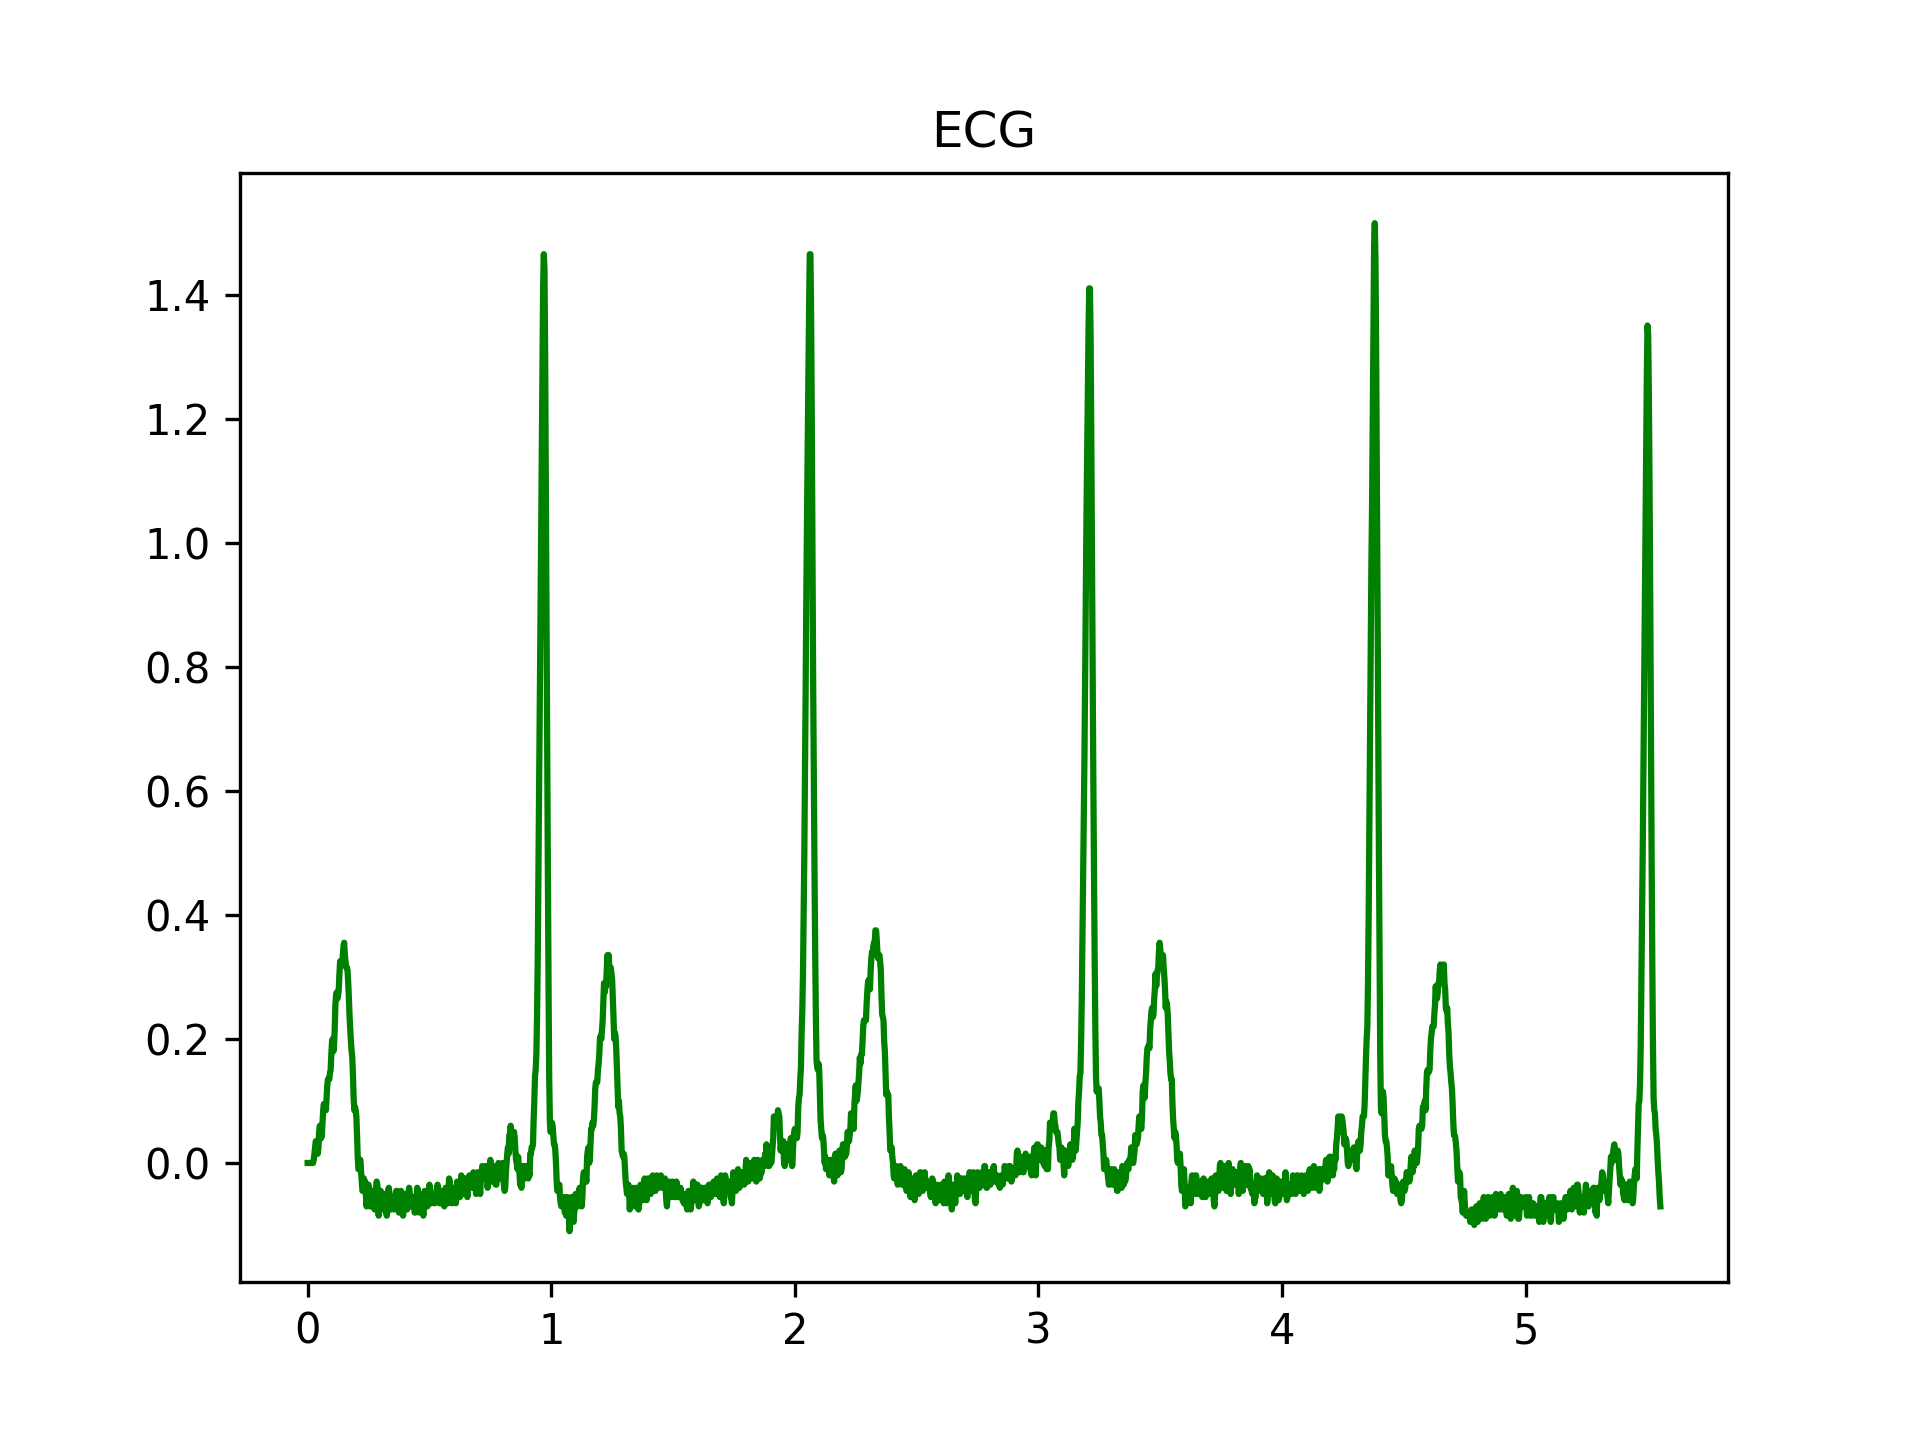
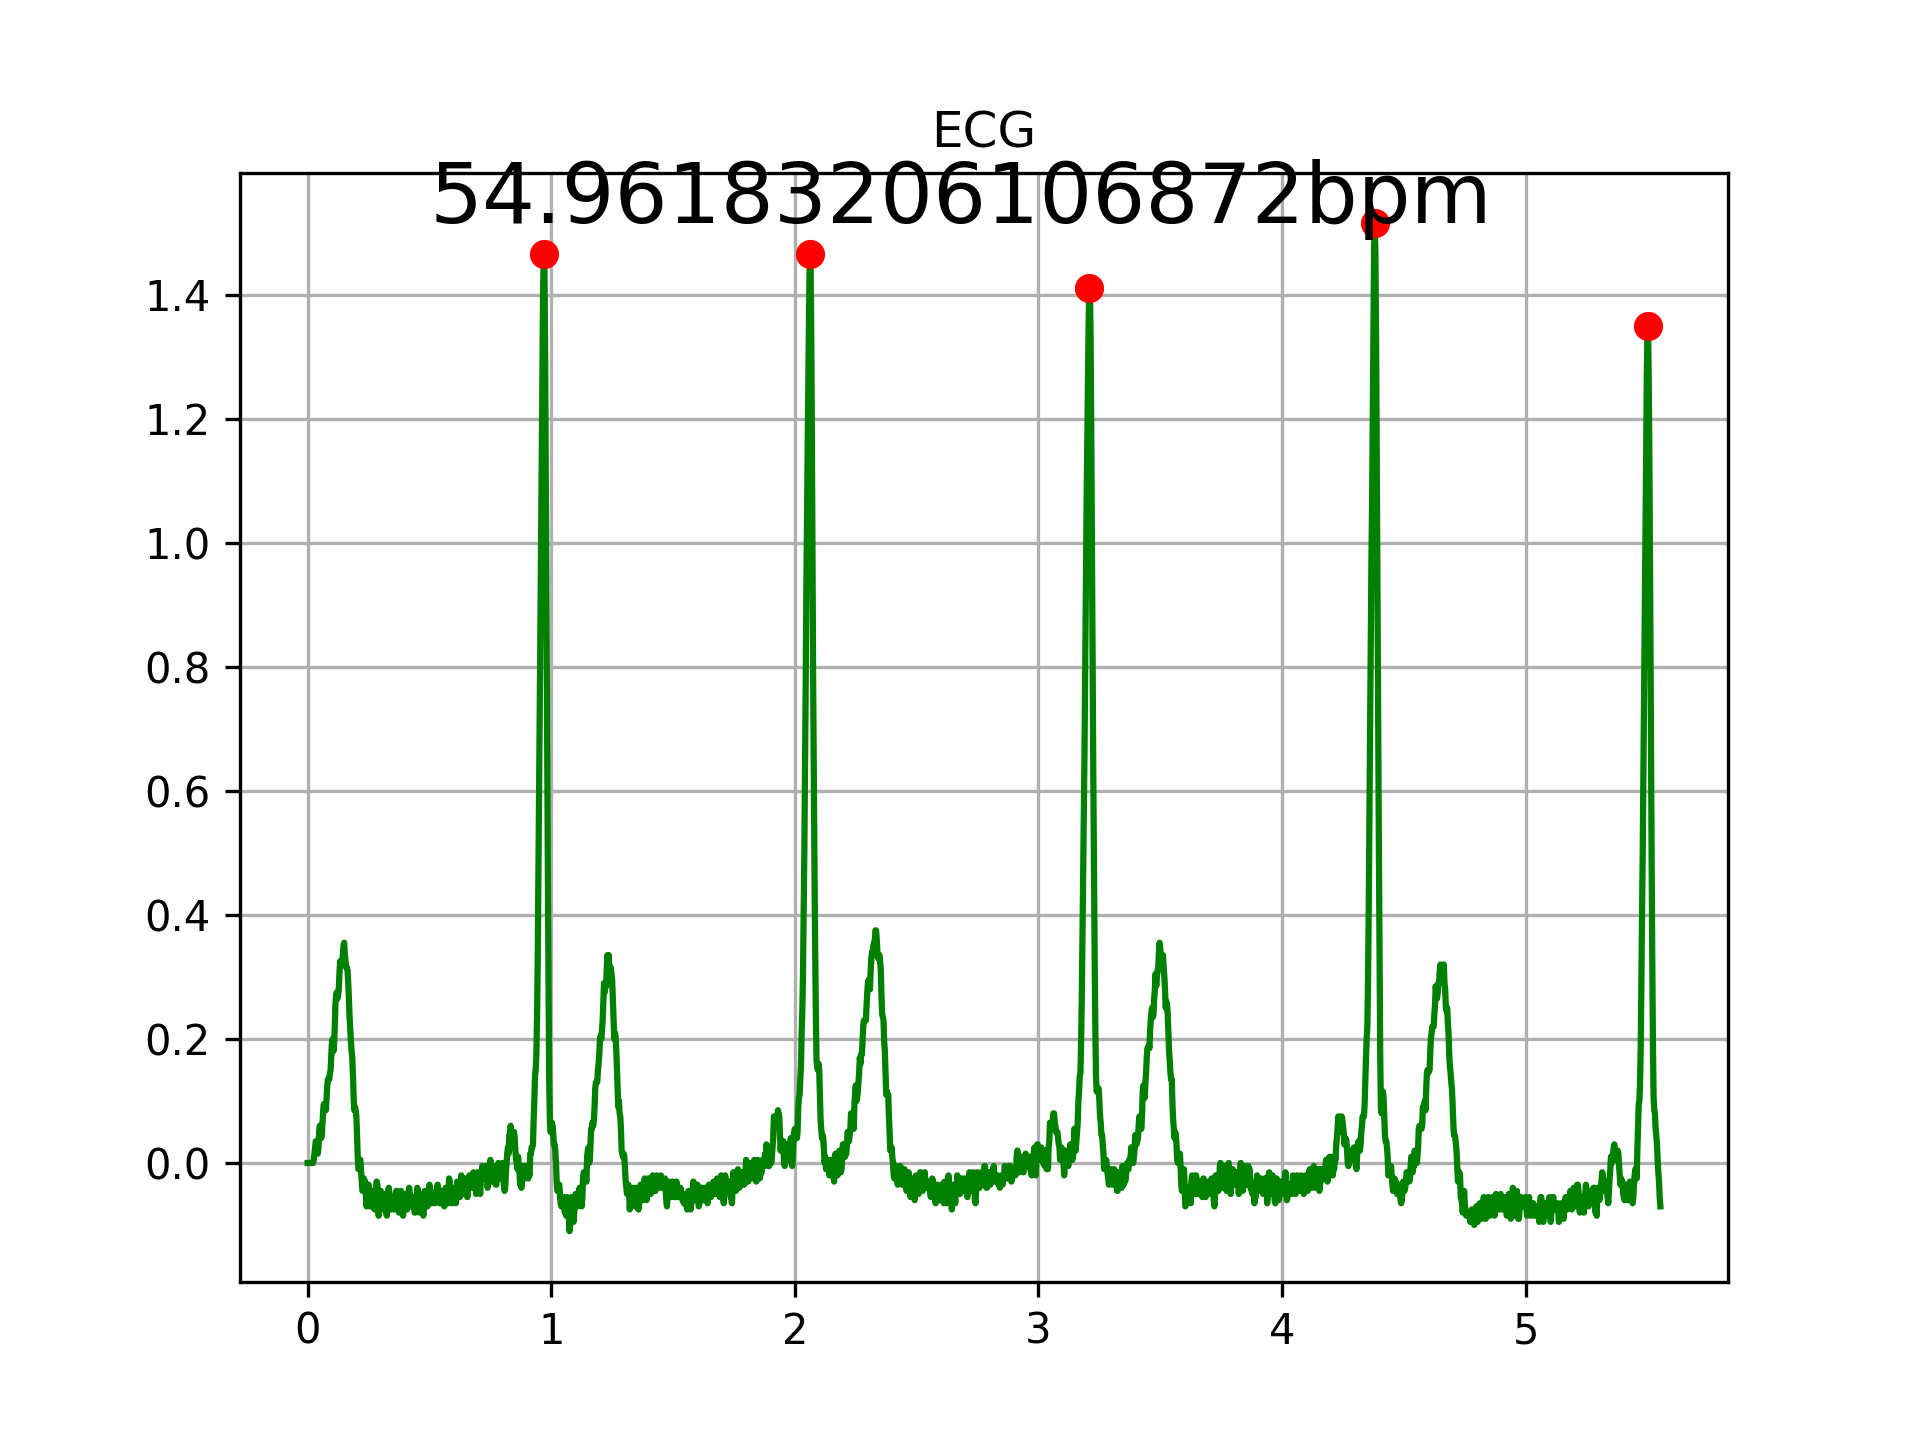
Grafico puntos max y texto con bpm

diff --git a/ECGProcess.py b/ECGProcess.py
@@ -1,5 +1,4 @@
 
-
 '''
 ECG Processing - Dogliani Matias, Toth Lautaro.
 
@@ -10,21 +9,34 @@ ECG Processing - Dogliani Matias, Toth Lautaro.
 *Almacenar resultado en un archivo de texto.txt
 
 '''
-
-
+#Scipy puede generar un ECG arbitrariamente para probar con otros scipy.misc.electrocardiograma()
+import numpy as np
 import pandas as pd
 import matplotlib.pyplot as plt
+from scipy.signal import find_peaks
 
 data = pd.read_excel('electrocardiograma.xlsx')
 
-print(data)
 TimeAxe = data['tiempo']
 SignalAxe = data['señal']
+picos,_ = find_peaks(SignalAxe, height=0.5, width = 10)
+
+
+#Como el eje x son segundos, el periodo es la cantidad de
+#segundos entre dos picos consecutivos
+#La frecuencia es la inversa. 1 Hz es un pulso en un segundo, que equivale
+#a 60 pulsos (latidos) en un minuto
+
+T = TimeAxe[picos[1]] -TimeAxe[picos[0]]
+freq = (1/T) * 60
+lpm = str(freq) + 'bpm'
+
 
 plt.plot(TimeAxe,SignalAxe,'g')
+plt.plot(TimeAxe[picos], SignalAxe[picos],'o', color = 'red')
+plt.grid()
+texto1 = plt.text(0.5,max(SignalAxe), lpm, fontsize=20)
+
 plt.title('ECG')
-
-
-
 plt.savefig('ECGSignal',dpi=300)
 plt.show()
